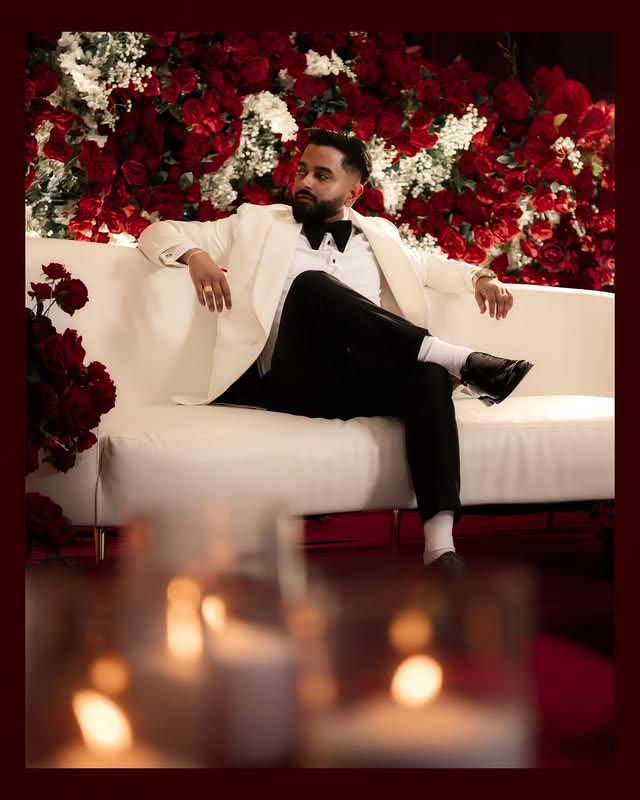
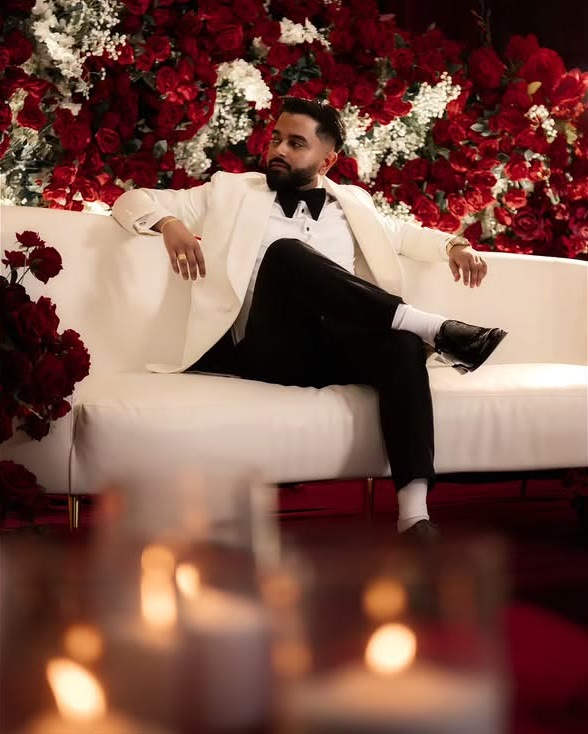
Add a colour/black-and-white toggle and a uniform border to the gallery
Toggle sits top right of the filter row on wide screens and drops below
them on narrow ones, where there is no room beside them. It retones the
grid and the lightbox together, defaulting to colour. Built as a
radiogroup with both options named outright rather than a switch, so the
meaning of each position is never something to infer.

The `.photo` desaturation is applied per element rather than in the
stylesheet so one control can drive it. Filter and transform have to
share a single transition-property declaration on the grid tiles —
listing transition-[filter] and transition-transform separately means
one silently overrides the other.

The uneven borders were not layout: the two black-tie photos carried a
maroon frame baked into the pixels, rgb(46,0,0), about 31px top and
bottom and 24px at the sides, from an Instagram-style export. Cropped it
off so the CSS border is not stacked on a painted one. Every tile now
measures 1px on all four sides.

Also fixes an 8px horizontal scroll on narrow screens that this branch
introduced earlier: removing overflow-hidden from the Services section
to free its sticky heading also unclipped the paper backdrop, which is
deliberately wider than the section. overflow-x-clip contains it without
creating a scrollport, so the sticky heading still pins — verified
identical pin behaviour with and without it.

Claude-Session: https://claude.ai/code/session_01FykLbgPvx7saFJkPjrUqu3

diff --git a/components/WorkGrid.tsx b/components/WorkGrid.tsx
@@ -16,7 +16,17 @@ const EASE = [0.16, 1, 0.3, 1] as const;
  * attribute so that a grid of clips only fetches the ones actually on screen
  * — with `preload="none"`, nothing downloads until the tile is scrolled to.
  */
-function GridVideo({ item, reduced }: { item: WorkItem; reduced: boolean }) {
+/**
+ * `.photo` is the site-wide desaturation rule. Toggling it per-element here
+ * rather than in the stylesheet lets one control retone the whole grid.
+ * Callers own the transition, since the grid animates transform alongside
+ * filter and the two must share a single transition-property declaration.
+ */
+function toneClass(mono: boolean) {
+  return mono ? "photo" : "";
+}
+
+function GridVideo({ item, reduced, mono }: { item: WorkItem; reduced: boolean; mono: boolean }) {
   const ref = useRef<HTMLVideoElement>(null);
 
   useEffect(() => {
@@ -50,7 +60,7 @@ function GridVideo({ item, reduced }: { item: WorkItem; reduced: boolean }) {
       muted
       playsInline
       preload="none"
-      className="absolute inset-0 w-full h-full object-cover transition-transform duration-700 ease-out group-hover:scale-[1.05]"
+      className={`${toneClass(mono)} absolute inset-0 w-full h-full object-cover transition-[filter,transform] duration-700 ease-out group-hover:scale-[1.05]`}
     />
   );
 }
@@ -66,6 +76,9 @@ export default function WorkGrid({
   // one-page layout, so filtering must not push history or move the scroll.
   const [active, setActive] = useState("all");
   const [lightboxIndex, setLightboxIndex] = useState<number | null>(null);
+  // Colour is the default: the cloth is the product. Black and white is the
+  // house look, so the toggle offers it rather than imposing it.
+  const [mono, setMono] = useState(false);
   const reduced = useReducedMotion();
 
   const filtered = useMemo(
@@ -87,16 +100,29 @@ export default function WorkGrid({
 
   return (
     <div>
-      <div className="flex flex-wrap gap-x-8 gap-y-3 justify-center mb-16" role="tablist" aria-label="Filter by category">
-        <FilterButton label="All" isActive={active === "all"} onClick={() => setCategory("all")} />
-        {categories.map((cat) => (
-          <FilterButton
-            key={cat}
-            label={CATEGORY_LABELS[cat] ?? cat}
-            isActive={active === cat}
-            onClick={() => setCategory(cat)}
-          />
-        ))}
+      {/* The filters stay optically centred on the section; the tone toggle is
+          pulled out to the right on wide screens and drops below on narrow
+          ones, where there is no room beside them. */}
+      <div className="relative mb-16">
+        <div
+          className="flex flex-wrap gap-x-8 gap-y-3 justify-center"
+          role="tablist"
+          aria-label="Filter by category"
+        >
+          <FilterButton label="All" isActive={active === "all"} onClick={() => setCategory("all")} />
+          {categories.map((cat) => (
+            <FilterButton
+              key={cat}
+              label={CATEGORY_LABELS[cat] ?? cat}
+              isActive={active === cat}
+              onClick={() => setCategory(cat)}
+            />
+          ))}
+        </div>
+
+        <div className="mt-8 flex justify-center lg:mt-0 lg:absolute lg:right-0 lg:-top-1">
+          <ToneToggle mono={mono} onChange={setMono} />
+        </div>
       </div>
 
       <div className="grid grid-cols-3 gap-2 sm:gap-4 lg:gap-6">
@@ -105,10 +131,10 @@ export default function WorkGrid({
             key={img.src}
             type="button"
             onClick={() => setLightboxIndex(i)}
-            className="group relative block overflow-hidden text-left aspect-[4/5]"
+            className="group relative block overflow-hidden text-left aspect-[4/5] border border-line"
           >
             {img.type === "video" ? (
-              <GridVideo item={img} reduced={!!reduced} />
+              <GridVideo item={img} reduced={!!reduced} mono={mono} />
             ) : (
               <Image
                 src={img.src}
@@ -118,7 +144,7 @@ export default function WorkGrid({
                 blurDataURL={img.blurDataURL}
                 loading={i < 6 ? "eager" : "lazy"}
                 sizes="(max-width: 640px) 33vw, (max-width: 1024px) 33vw, 25vw"
-                className="object-cover transition-transform duration-700 ease-out group-hover:scale-[1.05]"
+                className={`${toneClass(mono)} object-cover transition-[filter,transform] duration-700 ease-out group-hover:scale-[1.05]`}
               />
             )}
             <div
@@ -145,7 +171,41 @@ export default function WorkGrid({
         onNext={next}
         onPrev={prev}
         reduced={!!reduced}
+        mono={mono}
       />
+    </div>
+  );
+}
+
+/**
+ * Two mutually exclusive states rather than a switch widget: the labels name
+ * both options outright, so nobody has to infer what the "off" position of a
+ * switch would mean. Exposed as a radiogroup for the same reason.
+ */
+function ToneToggle({ mono, onChange }: { mono: boolean; onChange: (mono: boolean) => void }) {
+  return (
+    <div
+      className="inline-flex items-center border border-line"
+      role="radiogroup"
+      aria-label="Portfolio colour treatment"
+    >
+      {[
+        { label: "Colour", value: false },
+        { label: "B&W", value: true },
+      ].map(({ label, value }) => (
+        <button
+          key={label}
+          type="button"
+          role="radio"
+          aria-checked={mono === value}
+          onClick={() => onChange(value)}
+          className={`eyebrow px-4 py-2 transition-colors duration-300 ${
+            mono === value ? "bg-ivory !text-ink" : "text-ivory/60 hover:!text-ivory"
+          }`}
+        >
+          {label}
+        </button>
+      ))}
     </div>
   );
 }
@@ -181,6 +241,7 @@ function Lightbox({
   onNext,
   onPrev,
   reduced,
+  mono,
 }: {
   images: WorkItem[];
   index: number | null;
@@ -188,6 +249,7 @@ function Lightbox({
   onNext: () => void;
   onPrev: () => void;
   reduced: boolean;
+  mono: boolean;
 }) {
   const closeRef = useRef<HTMLButtonElement>(null);
   const dialogRef = useRef<HTMLDivElement>(null);
@@ -282,7 +344,7 @@ function Lightbox({
                     muted
                     playsInline
                     controls
-                    className="max-h-[70vh] w-auto object-contain"
+                    className={`${toneClass(mono)} max-h-[70vh] w-auto object-contain transition-[filter] duration-500 ease-out`}
                   />
                 ) : (
                   <Image
@@ -293,7 +355,7 @@ function Lightbox({
                     placeholder="blur"
                     blurDataURL={img.blurDataURL}
                     sizes="90vw"
-                    className="max-h-[70vh] w-auto object-contain"
+                    className={`${toneClass(mono)} max-h-[70vh] w-auto object-contain transition-[filter] duration-500 ease-out`}
                     priority
                   />
                 )}

diff --git a/components/ServicesSection.tsx b/components/ServicesSection.tsx
@@ -56,7 +56,12 @@ export default function ServicesSection() {
   return (
     <section
       id="services"
-      className="relative scroll-mt-24 lg:scroll-mt-32 px-6 lg:px-24 text-ink"
+      // overflow-x-clip, not overflow-hidden: the paper backdrop below is
+      // deliberately wider than the section and would otherwise widen the page
+      // on narrow screens. `clip` contains it without creating a scrollport,
+      // which is what `hidden` does — and a scrollport here would strand the
+      // sticky heading, since sticky resolves against the nearest one.
+      className="relative scroll-mt-24 lg:scroll-mt-32 px-6 lg:px-24 text-ink overflow-x-clip"
       style={{
         paddingTop: "var(--section-pad)",
         paddingBottom: "var(--section-pad)",
